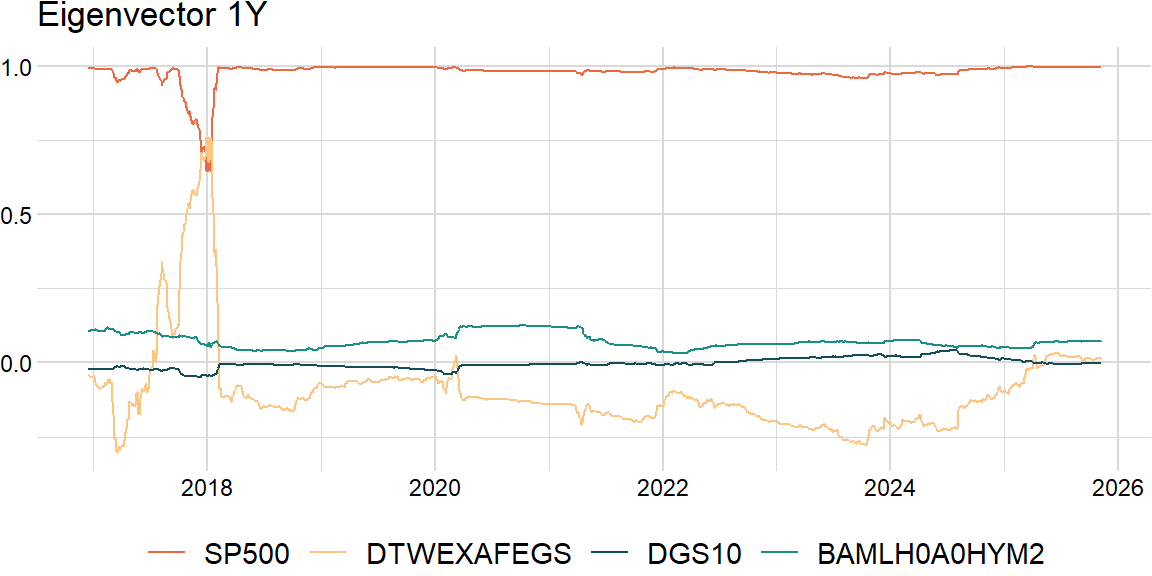
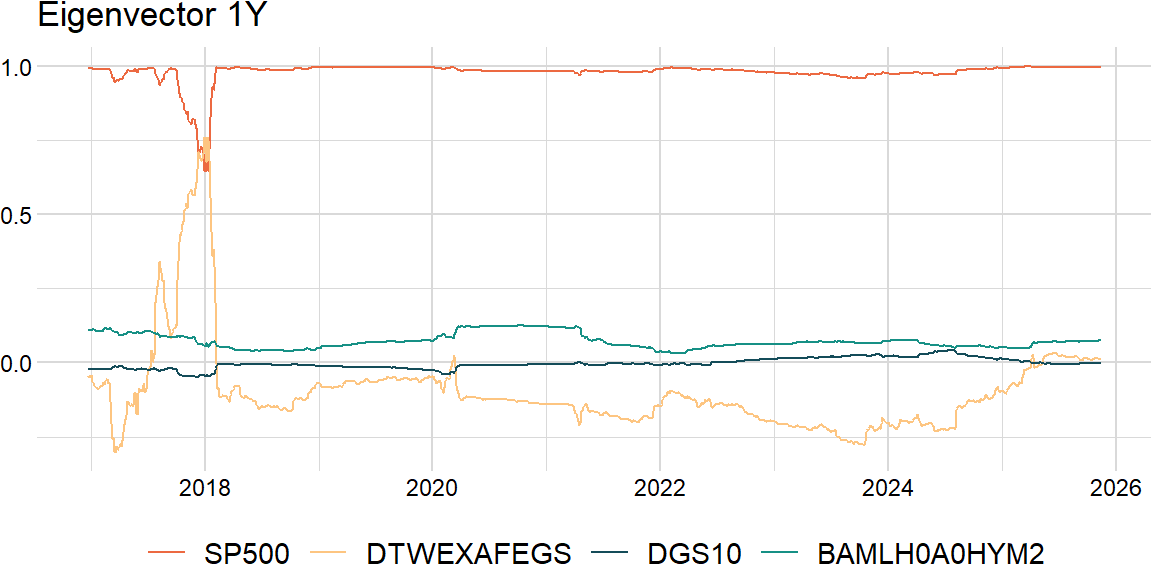
Version: 1.0.0

diff --git a/docs/index.html b/docs/index.html
@@ -197,7 +197,38 @@ window.Quarto = {
 
 <div class="quarto-listing quarto-listing-container-grid" id="listing-listing">
 <div class="list grid quarto-listing-cols-3">
-<div class="g-col-1" data-index="0" data-categories="YWxnb3JpdGhtcyUyQ3I=" data-listing-date-sort="1763909698000" data-listing-file-modified-sort="1763909698788" data-listing-date-modified-sort="NaN" data-listing-reading-time-sort="12" data-listing-word-count-sort="2300">
+<div class="g-col-1" data-index="0" data-categories="YW5hbHlzaXMlMkNmaW5hbmNlJTJDcg==" data-listing-date-sort="1763925549000" data-listing-file-modified-sort="1763925549121" data-listing-date-modified-sort="NaN" data-listing-reading-time-sort="5" data-listing-word-count-sort="948">
+<a href="./posts/eigen-r/index.html" class="quarto-grid-link">
+</a><div class="quarto-grid-item card h-100 card-left"><a href="./posts/eigen-r/index.html" class="quarto-grid-link">
+<p class="card-img-top"><img src="posts\eigen-r\index_files\figure-html\unnamed-chunk-16-1.png" style="height: 0px;"  class="thumbnail-image card-img"/></p>
+</a><div class="card-body post-contents"><a href="./posts/eigen-r/index.html" class="quarto-grid-link">
+<h5 class="no-anchor card-title listing-title">
+Eigen
+</h5>
+<div class="listing-categories">
+
+<div class="listing-category" onclick="window.quartoListingCategory('YW5hbHlzaXM='); return false;">analysis</div>
+
+<div class="listing-category" onclick="window.quartoListingCategory('ZmluYW5jZQ=='); return false;">finance</div>
+
+<div class="listing-category" onclick="window.quartoListingCategory('cg=='); return false;">r</div>
+
+</div>
+<div class="card-text listing-description delink">
+Underlying returns are structural bets that can be analyzed through dimension reduction techniques such as principal components analysis (PCA). Most empirical studies apply…<em></em>
+</div>
+</a><div class="card-attribution card-text-small justify"><a href="./posts/eigen-r/index.html" class="quarto-grid-link">
+</a><div class="listing-author"><a href="./posts/eigen-r/index.html" class="quarto-grid-link">
+</a><a href="mailto:jason.j.foster@gmail.com">Jason Foster</a>
+</div>
+<div class="listing-date">
+Nov 23, 2025
+</div>
+</div>
+</div>
+</div>
+</div>
+<div class="g-col-1" data-index="1" data-categories="YWxnb3JpdGhtcyUyQ3I=" data-listing-date-sort="1763909698000" data-listing-file-modified-sort="1763909698788" data-listing-date-modified-sort="NaN" data-listing-reading-time-sort="12" data-listing-word-count-sort="2300">
 <a href="./posts/statistics/index.html" class="quarto-grid-link">
 </a><div class="quarto-grid-item card h-100 card-left"><a href="./posts/statistics/index.html" class="quarto-grid-link">
 <div class="listing-item-img-placeholder card-img-top" style="height: 0px;">&nbsp;</div>
@@ -226,7 +257,7 @@ Nov 23, 2025
 </div>
 </div>
 </div>
-<div class="g-col-1" data-index="1" data-categories="YW5hbHlzaXMlMkNmaW5hbmNlJTJDcHl0aG9u" data-listing-date-sort="1763769818000" data-listing-file-modified-sort="1763769818456" data-listing-date-modified-sort="NaN" data-listing-reading-time-sort="15" data-listing-word-count-sort="2927">
+<div class="g-col-1" data-index="2" data-categories="YW5hbHlzaXMlMkNmaW5hbmNlJTJDcHl0aG9u" data-listing-date-sort="1763769818000" data-listing-file-modified-sort="1763769818456" data-listing-date-modified-sort="NaN" data-listing-reading-time-sort="15" data-listing-word-count-sort="2927">
 <a href="./posts/securities-py/index.html" class="quarto-grid-link">
 </a><div class="quarto-grid-item card h-100 card-left"><a href="./posts/securities-py/index.html" class="quarto-grid-link">
 <p class="card-img-top"><img src="posts\securities-py\index_files\figure-html\unnamed-chunk-20-1.png" style="height: 0px;"  class="thumbnail-image card-img"/></p>
@@ -257,7 +288,7 @@ Nov 21, 2025
 </div>
 </div>
 </div>
-<div class="g-col-1" data-index="2" data-categories="YW5hbHlzaXMlMkNmaW5hbmNlJTJDcg==" data-listing-date-sort="1763684542000" data-listing-file-modified-sort="1763684542871" data-listing-date-modified-sort="NaN" data-listing-reading-time-sort="16" data-listing-word-count-sort="3120">
+<div class="g-col-1" data-index="3" data-categories="YW5hbHlzaXMlMkNmaW5hbmNlJTJDcg==" data-listing-date-sort="1763684542000" data-listing-file-modified-sort="1763684542871" data-listing-date-modified-sort="NaN" data-listing-reading-time-sort="16" data-listing-word-count-sort="3120">
 <a href="./posts/securities-r/index.html" class="quarto-grid-link">
 </a><div class="quarto-grid-item card h-100 card-left"><a href="./posts/securities-r/index.html" class="quarto-grid-link">
 <p class="card-img-top"><img src="posts\securities-r\index_files\figure-html\unnamed-chunk-17-1.png" style="height: 0px;"  class="thumbnail-image card-img"/></p>
@@ -288,7 +319,7 @@ Nov 20, 2025
 </div>
 </div>
 </div>
-<div class="g-col-1" data-index="3" data-categories="YW5hbHlzaXMlMkNmaW5hbmNlJTJDcg==" data-listing-date-sort="1763596013000" data-listing-file-modified-sort="1763596013881" data-listing-date-modified-sort="NaN" data-listing-reading-time-sort="8" data-listing-word-count-sort="1436">
+<div class="g-col-1" data-index="4" data-categories="YW5hbHlzaXMlMkNmaW5hbmNlJTJDcg==" data-listing-date-sort="1763596013000" data-listing-file-modified-sort="1763596013881" data-listing-date-modified-sort="NaN" data-listing-reading-time-sort="8" data-listing-word-count-sort="1436">
 <a href="./posts/risk-r/index.html" class="quarto-grid-link">
 </a><div class="quarto-grid-item card h-100 card-left"><a href="./posts/risk-r/index.html" class="quarto-grid-link">
 <div class="listing-item-img-placeholder card-img-top" style="height: 0px;">&nbsp;</div>
@@ -323,7 +354,7 @@ Nov 19, 2025
 </div>
 </div>
 </div>
-<div class="g-col-1" data-index="4" data-categories="YW5hbHlzaXMlMkNmaW5hbmNlJTJDcHl0aG9u" data-listing-date-sort="1763595124000" data-listing-file-modified-sort="1763595124290" data-listing-date-modified-sort="NaN" data-listing-reading-time-sort="5" data-listing-word-count-sort="895">
+<div class="g-col-1" data-index="5" data-categories="YW5hbHlzaXMlMkNmaW5hbmNlJTJDcHl0aG9u" data-listing-date-sort="1763595124000" data-listing-file-modified-sort="1763595124290" data-listing-date-modified-sort="NaN" data-listing-reading-time-sort="5" data-listing-word-count-sort="895">
 <a href="./posts/markets-py/index.html" class="quarto-grid-link">
 </a><div class="quarto-grid-item card h-100 card-left"><a href="./posts/markets-py/index.html" class="quarto-grid-link">
 <p class="card-img-top"><img src="posts\markets-py\index_files\figure-html\unnamed-chunk-8-1.png" style="height: 0px;"  class="thumbnail-image card-img"/></p>
@@ -354,7 +385,7 @@ Nov 19, 2025
 </div>
 </div>
 </div>
-<div class="g-col-1" data-index="5" data-categories="YW5hbHlzaXMlMkNmaW5hbmNlJTJDcHl0aG9u" data-listing-date-sort="1763424592000" data-listing-file-modified-sort="1763424592612" data-listing-date-modified-sort="NaN" data-listing-reading-time-sort="8" data-listing-word-count-sort="1515">
+<div class="g-col-1" data-index="6" data-categories="YW5hbHlzaXMlMkNmaW5hbmNlJTJDcHl0aG9u" data-listing-date-sort="1763424592000" data-listing-file-modified-sort="1763424592612" data-listing-date-modified-sort="NaN" data-listing-reading-time-sort="8" data-listing-word-count-sort="1515">
 <a href="./posts/risk-py/index.html" class="quarto-grid-link">
 </a><div class="quarto-grid-item card h-100 card-left"><a href="./posts/risk-py/index.html" class="quarto-grid-link">
 <div class="listing-item-img-placeholder card-img-top" style="height: 0px;">&nbsp;</div>
@@ -389,7 +420,7 @@ Nov 17, 2025
 </div>
 </div>
 </div>
-<div class="g-col-1" data-index="6" data-categories="YW5hbHlzaXMlMkNmaW5hbmNlJTJDcg==" data-listing-date-sort="1763338382000" data-listing-file-modified-sort="1763338382909" data-listing-date-modified-sort="NaN" data-listing-reading-time-sort="8" data-listing-word-count-sort="1498">
+<div class="g-col-1" data-index="7" data-categories="YW5hbHlzaXMlMkNmaW5hbmNlJTJDcg==" data-listing-date-sort="1763338382000" data-listing-file-modified-sort="1763338382909" data-listing-date-modified-sort="NaN" data-listing-reading-time-sort="8" data-listing-word-count-sort="1498">
 <a href="./posts/optim-r/index.html" class="quarto-grid-link">
 </a><div class="quarto-grid-item card h-100 card-left"><a href="./posts/optim-r/index.html" class="quarto-grid-link">
 <p class="card-img-top"><img src="posts\optim-r\index_files\figure-html\unnamed-chunk-7-1.png" style="height: 0px;"  class="thumbnail-image card-img"/></p>
@@ -420,7 +451,7 @@ Nov 16, 2025
 </div>
 </div>
 </div>
-<div class="g-col-1" data-index="7" data-categories="YW5hbHlzaXMlMkNmaW5hbmNlJTJDcHl0aG9u" data-listing-date-sort="1763250739000" data-listing-file-modified-sort="1763250739817" data-listing-date-modified-sort="NaN" data-listing-reading-time-sort="7" data-listing-word-count-sort="1315">
+<div class="g-col-1" data-index="8" data-categories="YW5hbHlzaXMlMkNmaW5hbmNlJTJDcHl0aG9u" data-listing-date-sort="1763250739000" data-listing-file-modified-sort="1763250739817" data-listing-date-modified-sort="NaN" data-listing-reading-time-sort="7" data-listing-word-count-sort="1315">
 <a href="./posts/optim-py/index.html" class="quarto-grid-link">
 </a><div class="quarto-grid-item card h-100 card-left"><a href="./posts/optim-py/index.html" class="quarto-grid-link">
 <p class="card-img-top"><img src="posts\optim-py\index_files\figure-html\unnamed-chunk-8-1.png" style="height: 0px;"  class="thumbnail-image card-img"/></p>
@@ -451,7 +482,7 @@ Nov 15, 2025
 </div>
 </div>
 </div>
-<div class="g-col-1" data-index="8" data-categories="YW5hbHlzaXMlMkNmaW5hbmNlJTJDcg==" data-listing-date-sort="1763221990000" data-listing-file-modified-sort="1763221990441" data-listing-date-modified-sort="NaN" data-listing-reading-time-sort="5" data-listing-word-count-sort="880">
+<div class="g-col-1" data-index="9" data-categories="YW5hbHlzaXMlMkNmaW5hbmNlJTJDcg==" data-listing-date-sort="1763221990000" data-listing-file-modified-sort="1763221990441" data-listing-date-modified-sort="NaN" data-listing-reading-time-sort="5" data-listing-word-count-sort="880">
 <a href="./posts/markets-r/index.html" class="quarto-grid-link">
 </a><div class="quarto-grid-item card h-100 card-left"><a href="./posts/markets-r/index.html" class="quarto-grid-link">
 <p class="card-img-top"><img src="posts\markets-r\index_files\figure-html\unnamed-chunk-6-1.png" style="height: 0px;"  class="thumbnail-image card-img"/></p>
@@ -473,37 +504,6 @@ One month reversal and 2-12 month momentum are two ends of the spectrum. The gen
 </div>
 </a><div class="card-attribution card-text-small justify"><a href="./posts/markets-r/index.html" class="quarto-grid-link">
 </a><div class="listing-author"><a href="./posts/markets-r/index.html" class="quarto-grid-link">
-</a><a href="mailto:jason.j.foster@gmail.com">Jason Foster</a>
-</div>
-<div class="listing-date">
-Nov 15, 2025
-</div>
-</div>
-</div>
-</div>
-</div>
-<div class="g-col-1" data-index="9" data-categories="YW5hbHlzaXMlMkNmaW5hbmNlJTJDcg==" data-listing-date-sort="1763221924000" data-listing-file-modified-sort="1763221924648" data-listing-date-modified-sort="NaN" data-listing-reading-time-sort="5" data-listing-word-count-sort="948">
-<a href="./posts/eigen-r/index.html" class="quarto-grid-link">
-</a><div class="quarto-grid-item card h-100 card-left"><a href="./posts/eigen-r/index.html" class="quarto-grid-link">
-<p class="card-img-top"><img src="posts\eigen-r\index_files\figure-html\unnamed-chunk-16-1.png" style="height: 0px;"  class="thumbnail-image card-img"/></p>
-</a><div class="card-body post-contents"><a href="./posts/eigen-r/index.html" class="quarto-grid-link">
-<h5 class="no-anchor card-title listing-title">
-Eigen
-</h5>
-<div class="listing-categories">
-
-<div class="listing-category" onclick="window.quartoListingCategory('YW5hbHlzaXM='); return false;">analysis</div>
-
-<div class="listing-category" onclick="window.quartoListingCategory('ZmluYW5jZQ=='); return false;">finance</div>
-
-<div class="listing-category" onclick="window.quartoListingCategory('cg=='); return false;">r</div>
-
-</div>
-<div class="card-text listing-description delink">
-Underlying returns are structural bets that can be analyzed through dimension reduction techniques such as principal components analysis (PCA). Most empirical studies apply…<em></em>
-</div>
-</a><div class="card-attribution card-text-small justify"><a href="./posts/eigen-r/index.html" class="quarto-grid-link">
-</a><div class="listing-author"><a href="./posts/eigen-r/index.html" class="quarto-grid-link">
 </a><a href="mailto:jason.j.foster@gmail.com">Jason Foster</a>
 </div>
 <div class="listing-date">

diff --git a/docs/posts/eigen-r/index.html b/docs/posts/eigen-r/index.html
@@ -7,7 +7,7 @@
 <meta name="viewport" content="width=device-width, initial-scale=1.0, user-scalable=yes">
 
 <meta name="author" content="Jason Foster">
-<meta name="dcterms.date" content="2025-11-15">
+<meta name="dcterms.date" content="2025-11-23">
 
 <title>Eigen – jasonjfoster.github.io</title>
 <style>
@@ -193,7 +193,7 @@ window.Quarto = {
       <div>
       <div class="quarto-title-meta-heading">Published</div>
       <div class="quarto-title-meta-contents">
-        <p class="date">November 15, 2025</p>
+        <p class="date">November 23, 2025</p>
       </div>
     </div>
     
@@ -259,10 +259,10 @@ window.Quarto = {
 <div class="sourceCode cell-code" id="cb4"><pre class="sourceCode r code-with-copy"><code class="sourceCode r"><span id="cb4-1"><a href="#cb4-1" aria-hidden="true" tabindex="-1"></a><span class="fu">eigen_decomp</span>(overlap_xts, comps) <span class="sc">*</span> scale[[<span class="st">"periods"</span>]] <span class="sc">*</span> scale[[<span class="st">"overlap"</span>]]</span></code><button title="Copy to Clipboard" class="code-copy-button"><i class="bi"></i></button></pre></div>
 <div class="cell-output cell-output-stdout">
 <pre><code>              [,1]          [,2]          [,3]          [,4]
-[1,]  3.107577e-02 -0.0038700375 -8.093751e-05  2.631664e-03
-[2,] -3.870038e-03  0.0004819572  1.007960e-05 -3.277357e-04
-[3,] -8.093751e-05  0.0000100796  2.108035e-07 -6.854226e-06
-[4,]  2.631664e-03 -0.0003277357 -6.854226e-06  2.228636e-04</code></pre>
+[1,]  0.0310489721 -3.880709e-03 -8.159680e-05  2.636477e-03
+[2,] -0.0038807085  4.850369e-04  1.019851e-05 -3.295246e-04
+[3,] -0.0000815968  1.019851e-05  2.144366e-07 -6.928670e-06
+[4,]  0.0026364772 -3.295246e-04 -6.928670e-06  2.238725e-04</code></pre>
 </div>
 </div>
 <div class="cell">
@@ -292,7 +292,7 @@ window.Quarto = {
 <div class="cell">
 <div class="sourceCode cell-code" id="cb8"><pre class="sourceCode r code-with-copy"><code class="sourceCode r"><span id="cb8-1"><a href="#cb8-1" aria-hidden="true" tabindex="-1"></a><span class="fu">variance_explained</span>(overlap_xts)</span></code><button title="Copy to Clipboard" class="code-copy-button"><i class="bi"></i></button></pre></div>
 <div class="cell-output cell-output-stdout">
-<pre><code>[1] 0.8876039 0.9924974 0.9982254 1.0000000</code></pre>
+<pre><code>[1] 0.8876249 0.9925133 0.9982224 1.0000000</code></pre>
 </div>
 </div>
 </section>

diff --git a/docs/posts/eigen-py/index.html b/docs/posts/eigen-py/index.html
@@ -271,14 +271,14 @@ window.Quarto = {
 <div class="cell">
 <div class="sourceCode cell-code" id="cb5"><pre class="sourceCode python code-with-copy"><code class="sourceCode python"><span id="cb5-1"><a href="#cb5-1" aria-hidden="true" tabindex="-1"></a>eigen_decomp(overlap_df, comps) <span class="op">*</span> scale[<span class="st">"periods"</span>] <span class="op">*</span> scale[<span class="st">"overlap"</span>]</span></code><button title="Copy to Clipboard" class="code-copy-button"><i class="bi"></i></button></pre></div>
 <div class="cell-output cell-output-stdout">
-<pre><code>array([[ 3.19124348e-02, -3.78460213e-03, -8.27328198e-05,
-         2.62926975e-03],
-       [-3.78460213e-03,  4.48828594e-04,  9.81156115e-06,
-        -3.11813873e-04],
-       [-8.27328198e-05,  9.81156115e-06,  2.14484401e-07,
-        -6.81636804e-06],
-       [ 2.62926975e-03, -3.11813873e-04, -6.81636804e-06,
-         2.16625885e-04]])</code></pre>
+<pre><code>array([[ 3.18897076e-02, -3.78904977e-03, -8.11493151e-05,
+         2.63031430e-03],
+       [-3.78904977e-03,  4.50204759e-04,  9.64194458e-06,
+        -3.12526911e-04],
+       [-8.11493151e-05,  9.64194458e-06,  2.06499584e-07,
+        -6.69332585e-06],
+       [ 2.63031430e-03, -3.12526911e-04, -6.69332585e-06,
+         2.16952548e-04]])</code></pre>
 </div>
 </div>
 <div class="cell">
@@ -306,7 +306,7 @@ window.Quarto = {
 <div class="cell">
 <div class="sourceCode cell-code" id="cb9"><pre class="sourceCode python code-with-copy"><code class="sourceCode python"><span id="cb9-1"><a href="#cb9-1" aria-hidden="true" tabindex="-1"></a>variance_explained(overlap_df)</span></code><button title="Copy to Clipboard" class="code-copy-button"><i class="bi"></i></button></pre></div>
 <div class="cell-output cell-output-stdout">
-<pre><code>array([0.8855612 , 0.99264963, 0.99824703, 1.        ])</code></pre>
+<pre><code>array([0.88564074, 0.99266967, 0.99824561, 1.        ])</code></pre>
 </div>
 </div>
 </section>
